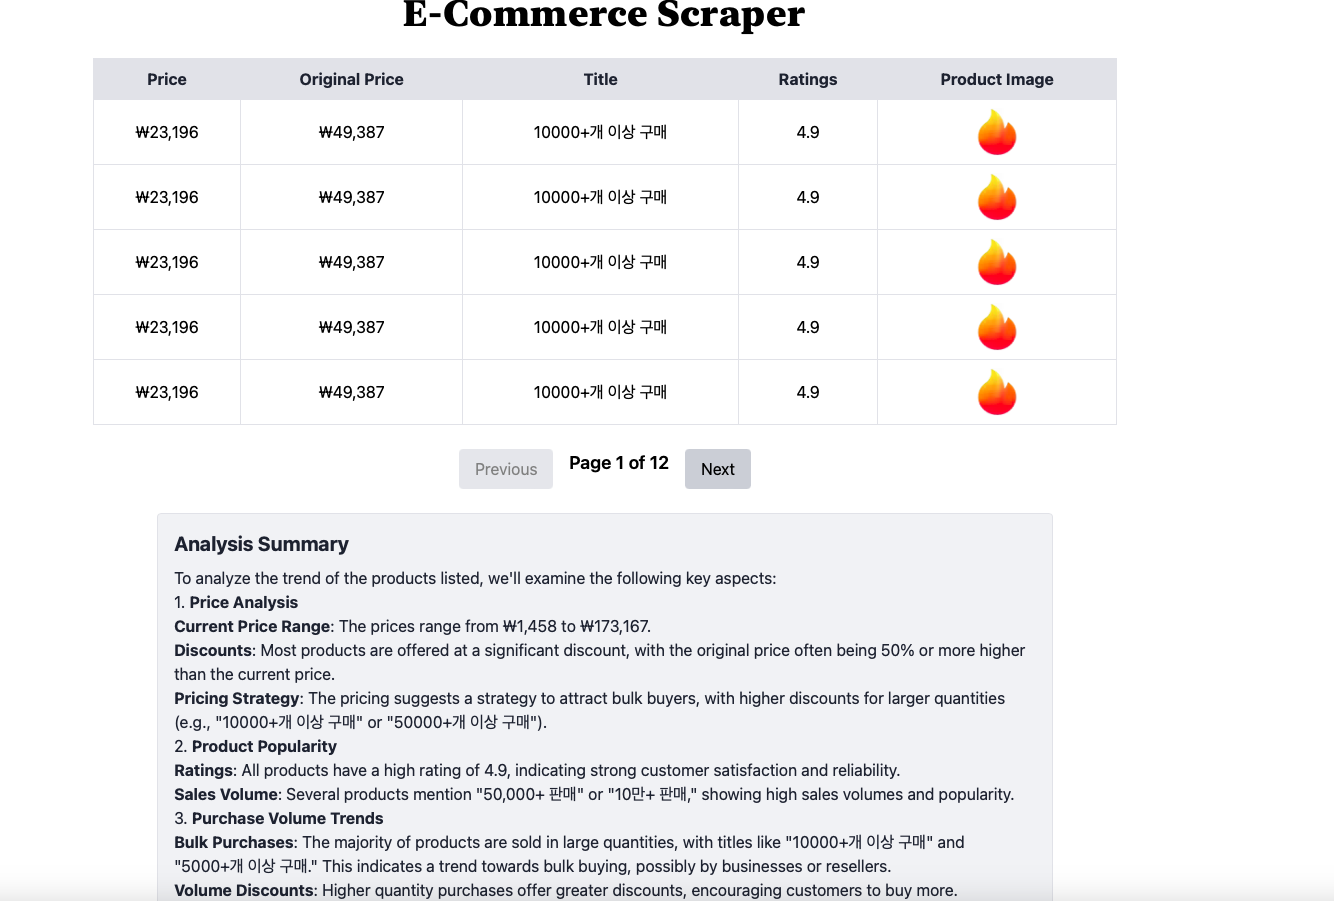
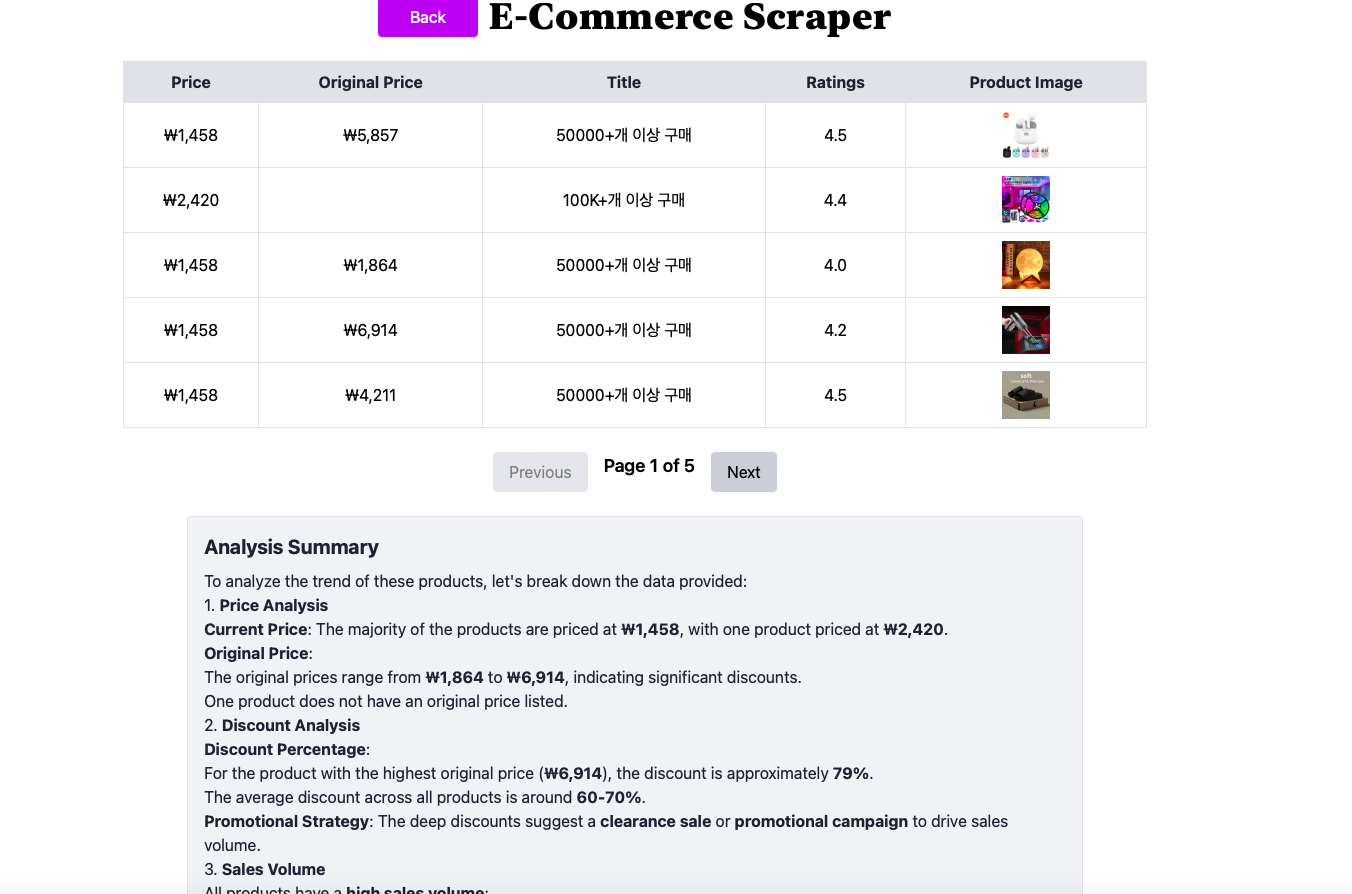
update README.md

diff --git a/README.md b/README.md
@@ -36,9 +36,10 @@ npm run dev
 1. Open your browser and navigate to `http://localhost:5173/`.
 2. Enter the Ali Express URL for scraping  and (Optional) What you want to analyze with those data and click search.
 ```bash
-https://www.aliexpress.com/ssr/300000556/zQFHEaEPNJ?spm=a2g0o.home.tab.2.617770f46Vy8Kn%26disableNav=YES%26pha_manifest=ssr%26_immersiveMode=true%26_gl=1*8hglg*_gcl_au*MTk4NjY2NDUyMC4xNzQwMzg3NDY5*_ga*MTYzOTQ3Nzk4My4xNzQwMzg3NDY5*_ga_VED1YSGNC7*MTc0MDQwMTEwNS4yLjEuMTc0MDQwMTExMS41NC4wLjA.
+https://www.aliexpress.com/ssr/300000556/zQFHEaEPNJ?spm=a2g0o.home.tab.2.650c76dbd2i9HW&disableNav=YES&pha_manifest=ssr&_immersiveMode=true
 ```
 ![Example Image](public/images/example-main-page.png)
+![Example Image](public/images/example-result-page-0.png)
 ![Example Image](public/images/example-result-page-1.png)
 ![Example Image](public/images/example-result-page-2.png)
 
